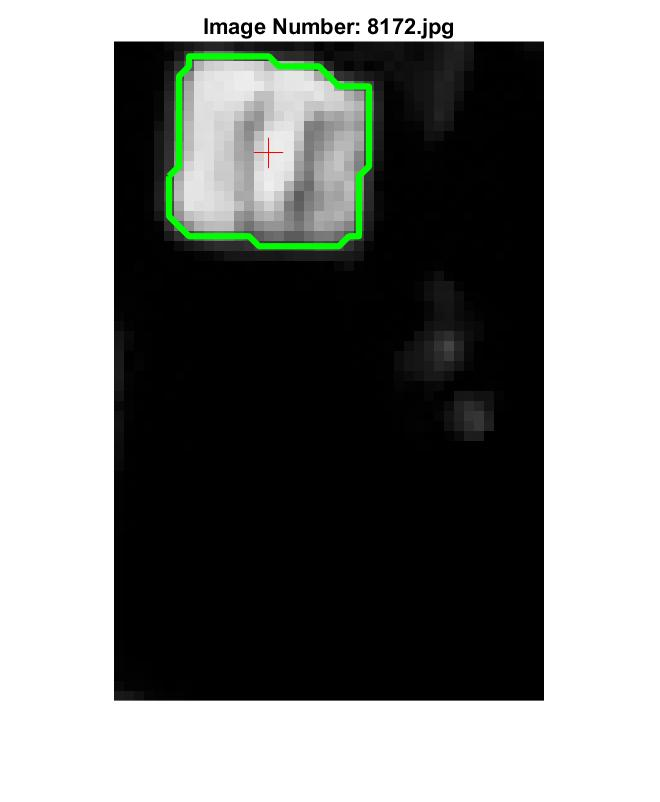
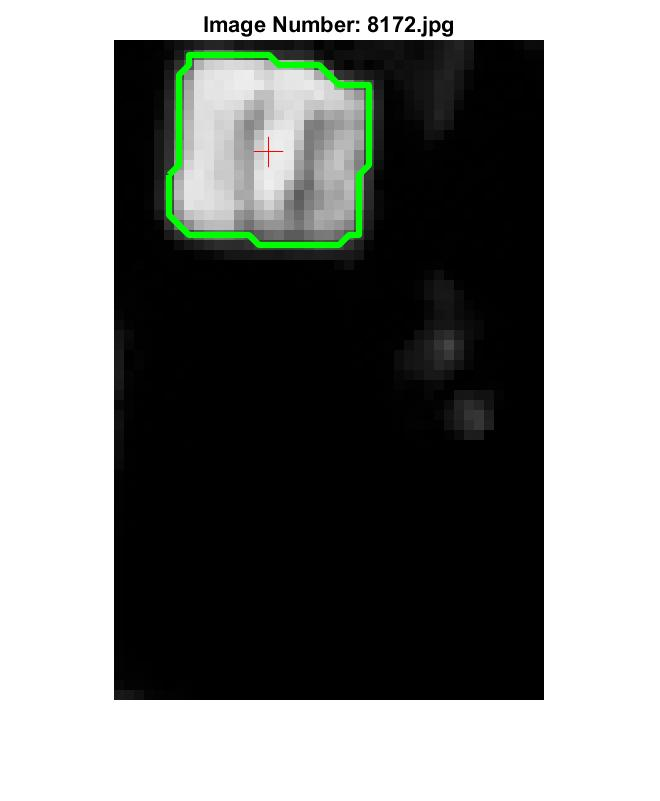
Adding results from multi-tracking

diff --git a/FindCentroid.m b/FindCentroid.m
@@ -1,34 +1,50 @@
-function FindCentroid(imageFiles,plotGrayscale,number_of_pixels,plotBinarized)
+function FindCentroid(imageFiles,plotGrayscale,~,plotBinarized)
+%Number of expected objects (sad I know but it's for proving tracking not
+%realistic tracking o.O
+n=2;
 
 for i=1:length(imageFiles)
     I = imread(strcat('Images/',imageFiles(i).name));
     I_gray = rgb2gray(I);
 
-    binaryTolerance = 0.2;
+    binaryTolerance = 0.1;
     I_binarized = imbinarize(I_gray,binaryTolerance);
     [I_boundaries,~,~,~] = bwboundaries(I_binarized);
     
-    for j=1:length(I_boundaries)
-        %%%Ignore objects with small boundaries (background noise)
-        if length(I_boundaries{j}(:,1)) < length(I_gray(:,1))*0.2
-            continue
-        end
+    %%%%% Find the largest boundaries (the cubesats)
+    [s,~] = cellfun(@size,I_boundaries);
+    [~,si] = sort(s,'descend');
+    I_boundaries = I_boundaries(si,:);
+    
+    if plotGrayscale == 1
+        figure
+        imshow(I_gray,'InitialMagnification',800);
+        hold on
+        title(['Image ' , num2str(i)]);
+        sz = 200;
+    end
+    
+    for j=1:n
         b = I_boundaries{j};
         %%%% Plotting grayscale image overlaid with cube outline
         %%%% and geometric centroid overlaid
         if plotGrayscale == 1
-            figure
-            imshow(I_gray,'InitialMagnification',800);
-            title(['Image Number: ' , imageFiles(i).name])
-            hold on
-            sz = 200;
             scatter(mean(b(:,2)),mean(b(:,1)),sz,'r','+');
+            str = num2str(j);
+            text(mean(b(:,2)),mean(b(:,1))+200,str,'Color','red',...
+                'FontSize',15);
             plot(b(:,2),b(:,1),'g','LineWidth',3);
-            saveas(gcf,['OutlinedImageOutputs/','outlined_',imageFiles(i).name])
         end
     end
     
-    number_of_pixels(i) = FindCubeSatPixels(b,imageFiles(i).name,I_binarized,...
+    if plotGrayscale == 1
+        saveas(gcf,['OutlinedImageOutputs/','outlined_multitracking'...
+            ,imageFiles(i).name]);
+    end
+    
+    %number_of_pixels(i) = FindCubeSatPixels(b,imageFiles(i).name,I_binarized,...
+    %    plotBinarized);
+    FindCubeSatPixels(b,imageFiles(i).name,I_binarized,...
         plotBinarized);
     
 end

diff --git a/FindCubeSatPixels.m b/FindCubeSatPixels.m
@@ -1,4 +1,5 @@
-function number_of_pixels = FindCubeSatPixels(b,imageName,I_binarized,...
+%function number_of_pixels = FindCubeSatPixels(b,imageName,I_binarized,...
+function [] = FindCubeSatPixels(b,imageName,I_binarized,...
     plotBinarized)
     %%%%% Crop binarized image to the region containing the cube, allowing
     %%%%% for accurate pixel count (binary pixels == 1)
@@ -7,15 +8,15 @@ function number_of_pixels = FindCubeSatPixels(b,imageName,I_binarized,...
     boundaryYStart = min(b(:,1));
     boundaryYEnd = max(b(:,2));
     
-    image_cropped = imcrop(I_binarized,[boundaryXStart,boundaryYStart,...
-        boundaryXEnd-boundaryXStart,boundaryYEnd-boundaryYStart]);
-    number_of_pixels = length(find(image_cropped==1));
+    %image_cropped = imcrop(I_binarized,[boundaryXStart,boundaryYStart,...
+        %boundaryXEnd-boundaryXStart,boundaryYEnd-boundaryYStart]);
+    %number_of_pixels = length(find(image_cropped==1));
     
     if plotBinarized == 1
         figure
-        imshow(image_cropped,'InitialMagnification','fit');
+        imshow(I_binarized,'InitialMagnification','fit');
         title({['Image Number: ' , imageName] , ...
-            ['Number of Pixels: ',num2str(number_of_pixels)]})
+            ['Number of Pixels: ']});%,num2str(number_of_pixels)]})
         saveas(gcf,['BinarizedImageOutputs/','binarized_',imageName]);
     end
 end

diff --git a/EdgeOutlineDetection.m b/EdgeOutlineDetection.m
@@ -7,15 +7,15 @@ close all
 clear
 
 %Resolution of Jerry's camera
-jerry = 7360*4912;
+%jerry = 7360*4912;
 
 %%% Options to plot grayscale centroid and binarized images
 plotGrayscale = 1;
-plotBinarized = 1;
+plotBinarized = 0;
 
 
 %%% Search Images folder for test images (images beginning with 8)
-imageFiles = dir('Images/8*');
+imageFiles = dir('Images/multi*');
 
 %Preallocate array to store number of pixels for the cubesats in each image
 number_of_pixels = zeros(length(imageFiles),1);
